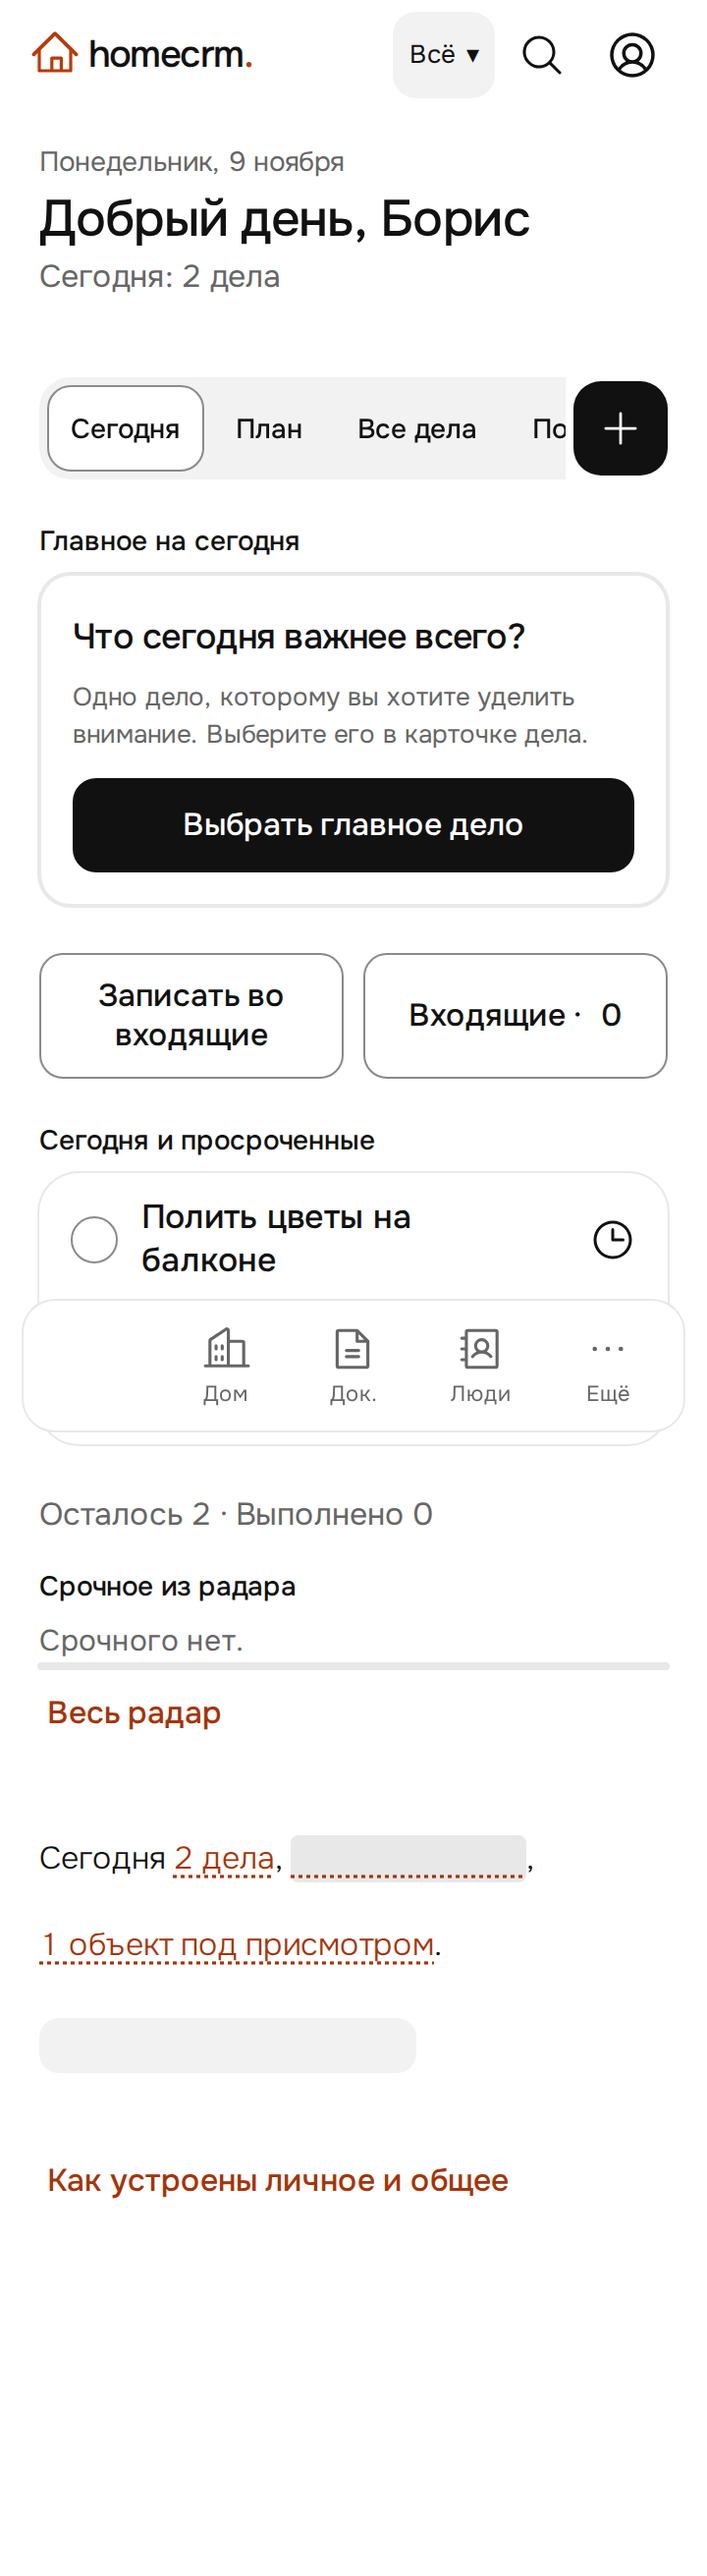
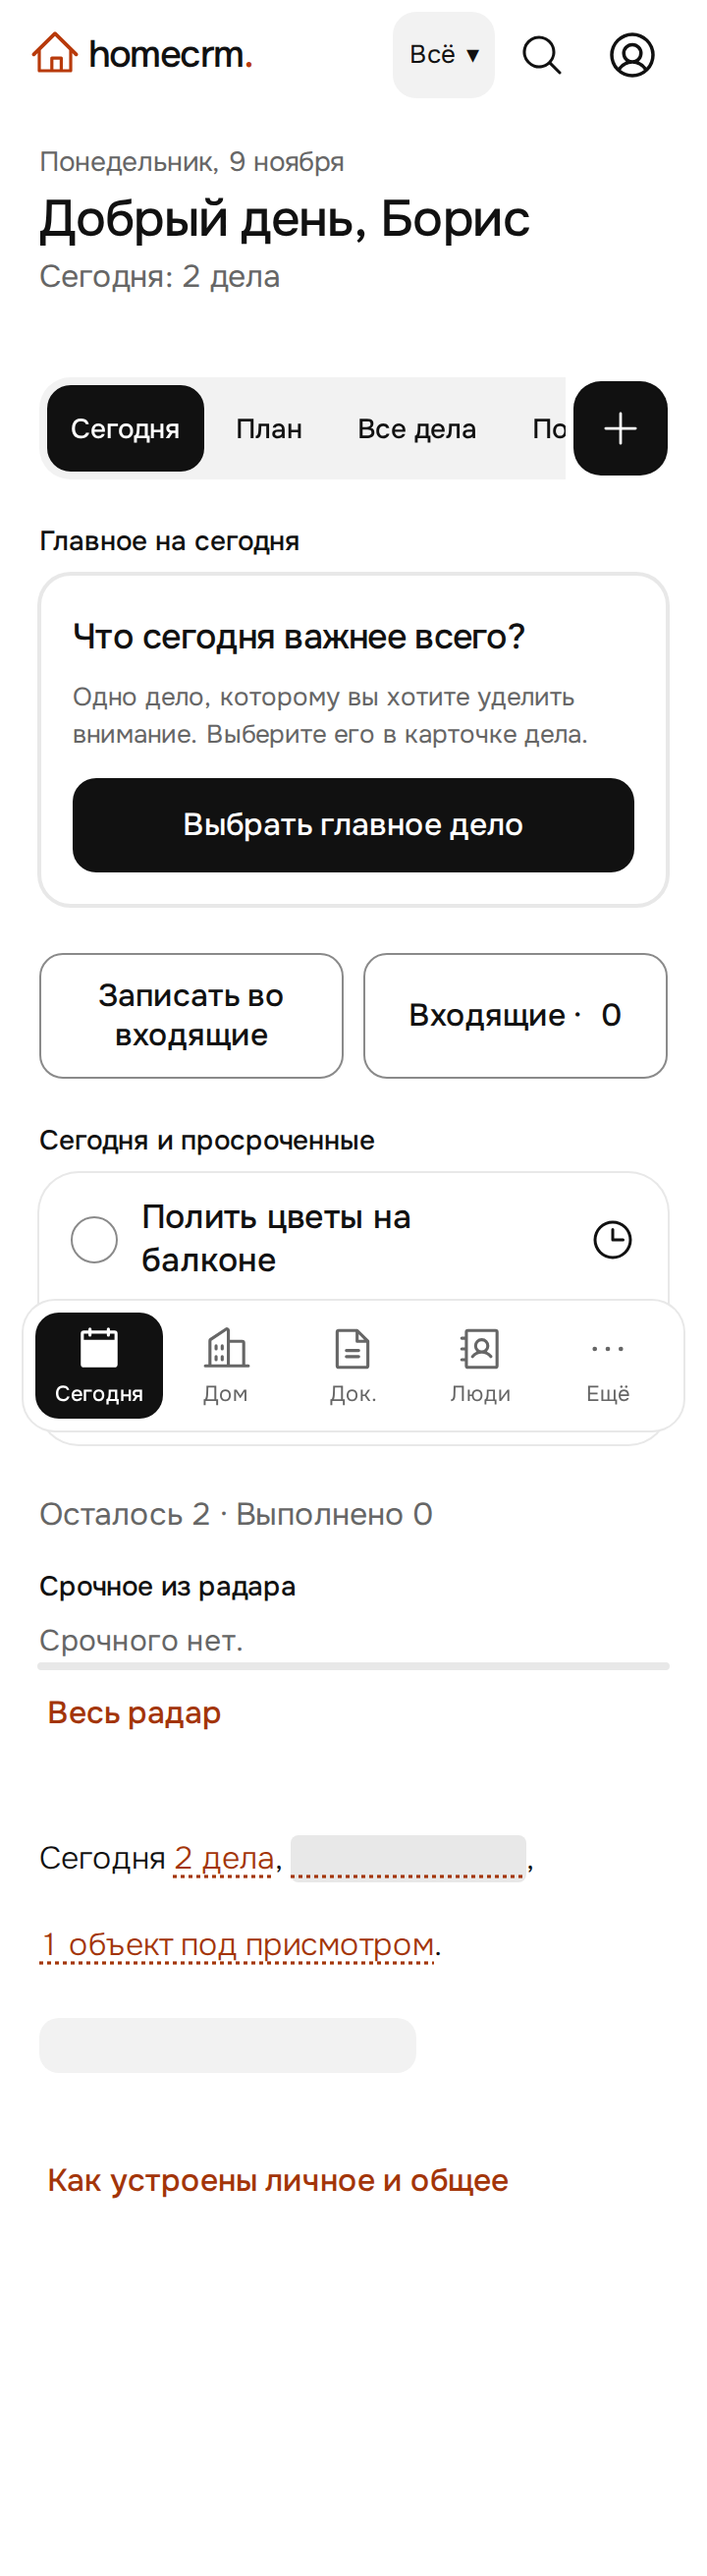
UI-11: плашки активного раздела и вкладки берут цвет из токенов темы

Changed region(s): [[0.0611, 0.1236, 0.3056, 0.1854], [0.0306, 0.4943, 0.2444, 0.5561]]

diff --git a/apps/web/e2e/app/d47-themes.e2e.ts b/apps/web/e2e/app/d47-themes.e2e.ts
@@ -79,6 +79,49 @@ test('D47: темы на четырёх экранах, 360 px, axe и без г
       ).toBeVisible();
       await expect(page.getByText(/Загружаем/)).toHaveCount(0);
       await settle(page);
+      if (screen.name === 'today') {
+        // Активный раздел меню и выбранная вкладка видны: фон плашки не равен фону меню,
+        // контраст подписи не ниже 4,5:1.
+        const nav = await page.evaluate(() => {
+          const parse = (value: string) => (value.match(/[\d.]+/g) ?? []).slice(0, 3).map(Number);
+          const light = (value: string) => {
+            const [r = 0, g = 0, b = 0] = parse(value).map((part) => {
+              const unit = part / 255;
+              return unit <= 0.03928 ? unit / 12.92 : ((unit + 0.055) / 1.055) ** 2.4;
+            });
+            return 0.2126 * r + 0.7152 * g + 0.0722 * b;
+          };
+          const ratio = (a: string, b: string) => {
+            const [hi, lo] = [light(a), light(b)].sort((x, y) => y - x);
+            return ((hi ?? 0) + 0.05) / ((lo ?? 0) + 0.05);
+          };
+          const pair = (indicator: string, link: string, menu: string) => {
+            const mark = document.querySelector(indicator);
+            const text = document.querySelector(link);
+            const base = document.querySelector(menu);
+            if (!mark || !text || !base) return null;
+            const fill = getComputedStyle(mark).backgroundColor;
+            return {
+              fill,
+              menu: getComputedStyle(base).backgroundColor,
+              contrast: ratio(getComputedStyle(text).color, fill),
+            };
+          };
+          return {
+            section: pair(
+              '.bottom-nav .section-indicator',
+              '.bottom-nav__link[aria-current="page"]',
+              '.bottom-nav',
+            ),
+            tab: pair('.tabs .tab-indicator', '.tabs__link[aria-current="page"]', '.tabs__list'),
+          };
+        });
+        expect(nav.section, `${label}: плашка раздела найдена`).not.toBeNull();
+        expect(nav.section?.fill, `${label}: плашка раздела`).not.toBe(nav.section?.menu);
+        expect(nav.section?.contrast ?? 0, `${label}: подпись раздела`).toBeGreaterThanOrEqual(4.5);
+        expect(nav.tab?.fill, `${label}: плашка вкладки`).not.toBe(nav.tab?.menu);
+        expect(nav.tab?.contrast ?? 0, `${label}: подпись вкладки`).toBeGreaterThanOrEqual(4.5);
+      }
       await page.screenshot({ path: resolve(SHOTS, `${label}-360.png`), fullPage: true });
       try {
         await expectNoHorizontalScroll(page);

diff --git a/apps/web/src/styles/tokens.css b/apps/web/src/styles/tokens.css
@@ -160,6 +160,9 @@
   --seg-on-fg: var(--ink);
   --hseg-on-bg: var(--on-dark);
   --hseg-on-fg: var(--charcoal);
+  --tabs-on-bg: var(--surface);
+  --tabs-on-fg: var(--ink);
+  --tabs-on-border: var(--border);
   --pressed-bg: var(--charcoal);
   --pressed-fg: var(--on-dark);
   --tile-bg: #f3ddd2;
@@ -232,6 +235,9 @@
   --seg-on-fg: #fff;
   --hseg-on-bg: #111;
   --hseg-on-fg: #fff;
+  --tabs-on-bg: #111;
+  --tabs-on-fg: #fff;
+  --tabs-on-border: #111;
   --pressed-bg: #111;
   --pressed-fg: #fff;
   --tile-bg: #f2f2f2;
@@ -299,6 +305,9 @@
   --seg-on-fg: #000;
   --hseg-on-bg: #fff;
   --hseg-on-fg: #000;
+  --tabs-on-bg: #fff;
+  --tabs-on-fg: #000;
+  --tabs-on-border: #fff;
   --pressed-bg: #0062cc;
   --pressed-fg: #fff;
   --tile-bg: #e6effa;

diff --git a/apps/web/src/styles/calm.css b/apps/web/src/styles/calm.css
@@ -154,13 +154,13 @@ html[data-design="studio"] .ui7-fullscreen-form .ui7-form-heading > .back-link {
 }
 
 html[data-design="studio"] .tab-indicator {
-  border: 1px solid var(--border);
+  border: 1px solid var(--tabs-on-border);
   border-radius: 12px;
-  background: var(--surface);
+  background: var(--tabs-on-bg);
 }
 
 html[data-design="studio"] .tabs .tabs__link[aria-current="page"] {
-  color: var(--ink);
+  color: var(--tabs-on-fg);
 }
 
 html[data-design="studio"] .studio-add,

diff --git a/apps/web/src/styles/motion.css b/apps/web/src/styles/motion.css
@@ -433,7 +433,7 @@ html[data-design="studio"] .section-indicator:not([hidden]) {
   left: 0;
   z-index: -1;
   border-radius: 22px;
-  background: var(--paper);
+  background: var(--nav-active-bg);
   pointer-events: none;
 }
 html[data-design="studio"] :is(.bottom-nav__link, .side-nav__link)[aria-current="page"] {
